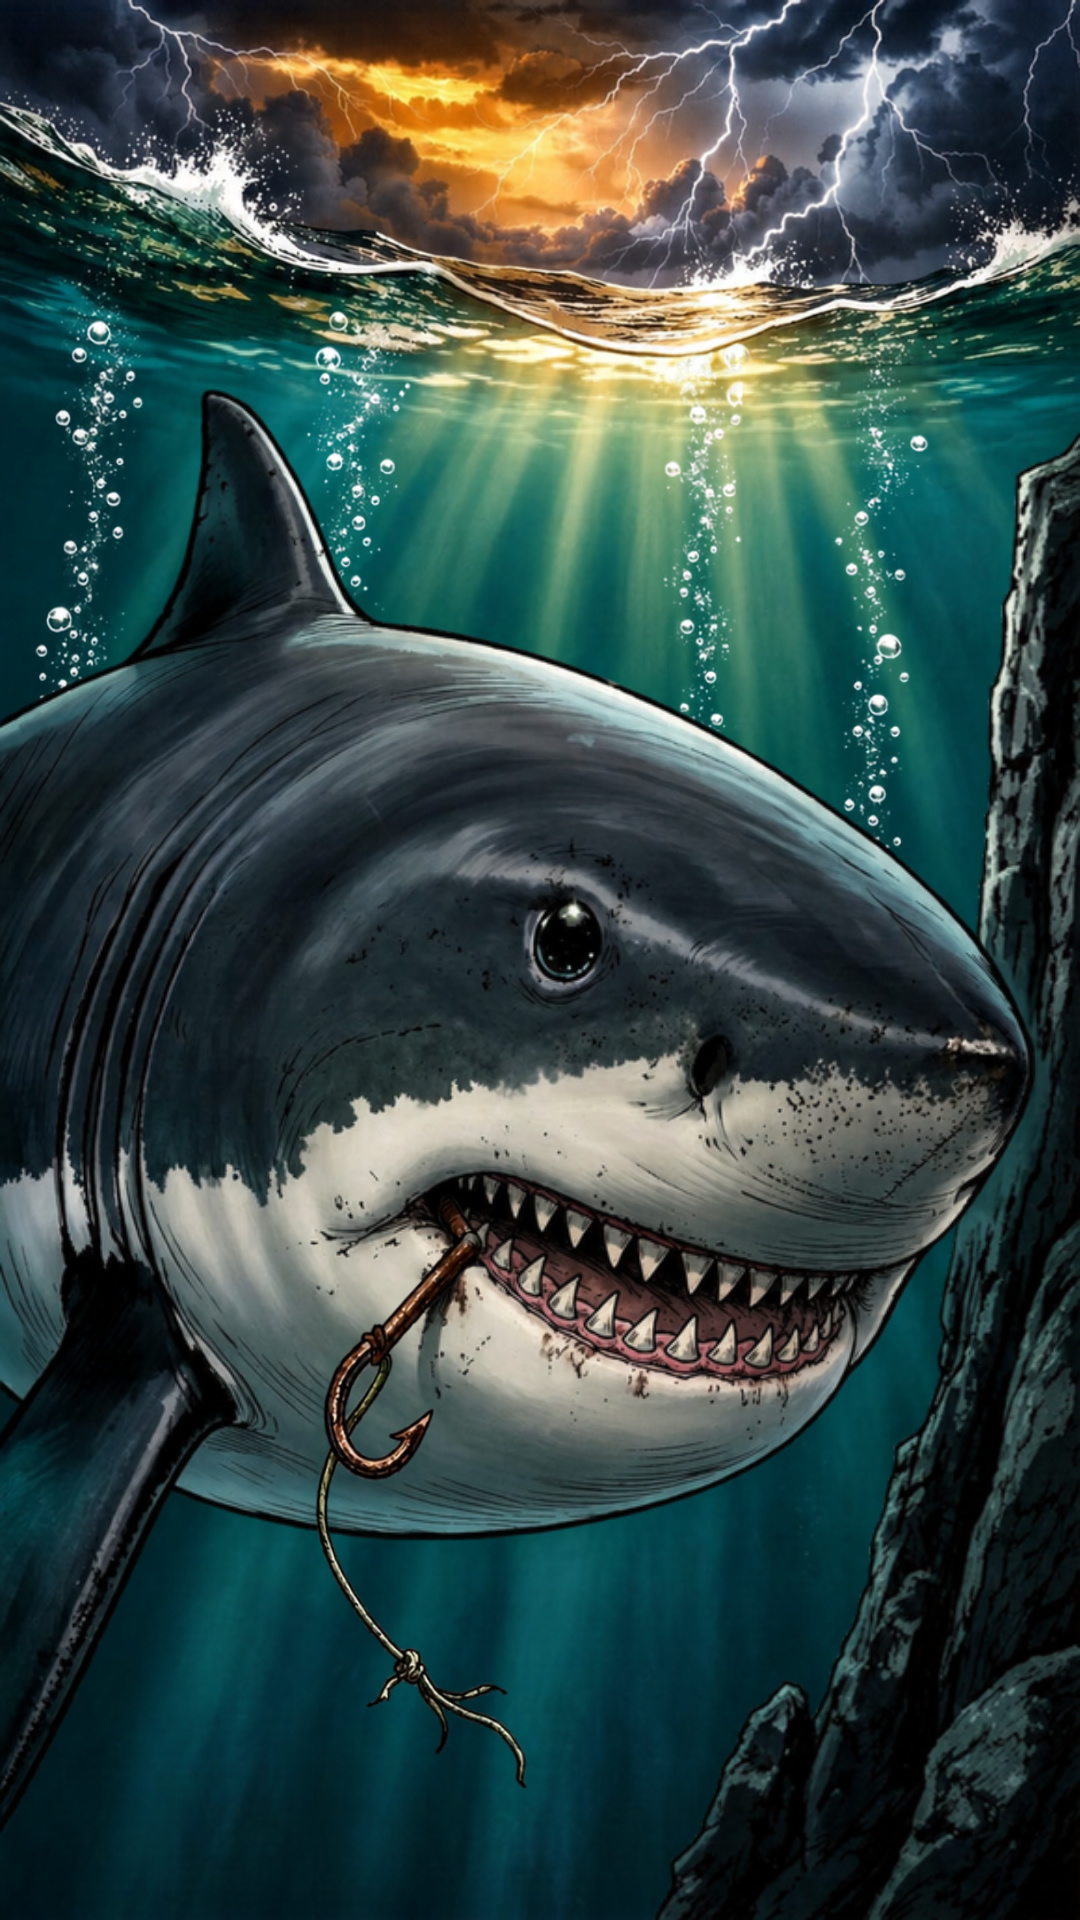
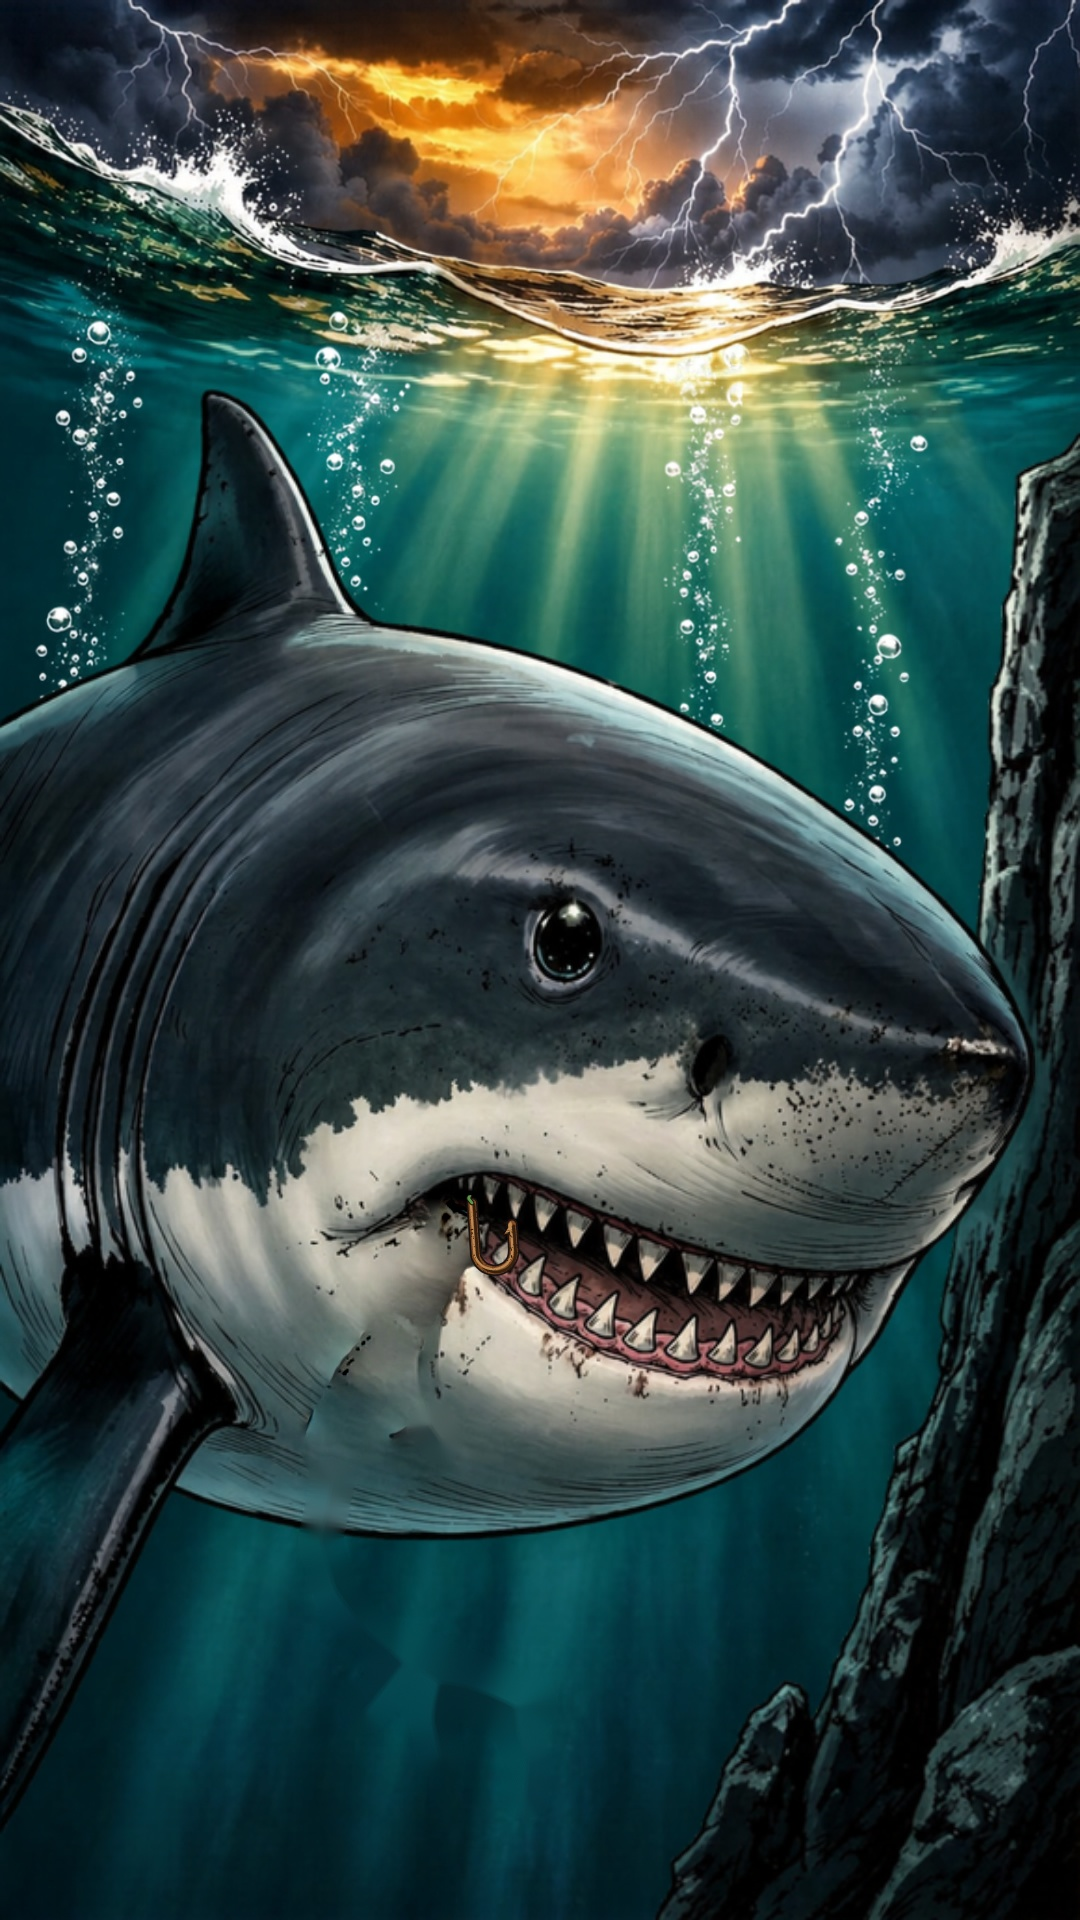
ADA 9: kanca her sahnede aynı çizim, ağzın içinde (09c, 14b, 01b); köpekbalığı değişmedi
Claude-Session: https://claude.ai/code/session_014JxJGGMAcsX945kBrKhihb

Changed region(s): [[0.275, 0.625, 0.4889, 0.8438], [0.3361, 0.8438, 0.4889, 0.9375]]

diff --git a/hikaye-video/projeler/ada9/kanca.py b/hikaye-video/projeler/ada9/kanca.py
@@ -1,0 +1,127 @@
+#!/usr/bin/env python3
+"""Köpekbalığı kancasını bütün sahnelerde AYNI çizimle, ağzın içinde (yanağa saplı) gösterir.
+Eski dışarı sarkan kanca + misina silinir (inpaint), yerine tek bir kanca sprite'ı çizilir.
+Kullanım (repo kökünden): python3 hikaye-video/projeler/ada9/kanca.py <sahne> [<sahne> ...] [--cikti klasör]
+Köpekbalığı çizimi değişmez; yalnızca kanca eklenir."""
+import sys, os, math
+import cv2, numpy as np
+
+G = os.path.join(os.path.dirname(__file__), '..', '..', 'gorseller', 'ada9')
+
+# her sahne: sil = [(noktalar, kalınlık)] çizgi maskeleri, roi = renk maskesiyle kanca avlanacak kutu,
+# kanca = (x, y, açı°, ölçek): sprite'ın sapının tepe noktası, açı 0 = aşağı, + = sağa
+SAHNE = {
+    # klon: [(çizgiler, kalınlık, dx, dy)] -> bölgeyi, (dx, dy) kadar kaydırılmış temiz yerden kopyalar (dx>0: soldan, dy>0: yukarıdan alır)
+    # sil: Telea ile doldurulacak ince çizgiler (su içindeki misina)
+    '09c': dict(klon=[([([(455, 1230), (420, 1290), (392, 1340)], 54)], -100, -120),
+                      ([([(392, 1340), (350, 1400), (335, 1425)], 54), ([(335, 1425), (330, 1452), (345, 1482), (385, 1478), (430, 1442)], 54)], -120, 0)],
+                sil=[([(332, 1480), (320, 1540), (335, 1590), (365, 1630), (405, 1662)], 28),
+                     ([(410, 1665), (385, 1685), (365, 1710)], 30), ([(412, 1672), (430, 1710), (440, 1756)], 30),
+                     ([(415, 1672), (470, 1698), (512, 1722), (528, 1760), (525, 1795)], 30), ([(420, 1688), (470, 1684), (510, 1690)], 28), ([(395, 1655), (450, 1680), (520, 1705)], 55), ([(430, 1425), (440, 1440)], 30)],
+                kanca=(472, 1203, -4, 0.8)),
+    '14b': dict(cor=[(200, 1440, 360, 1860)], sil=[([(322, 1282), (330, 1250), (352, 1226), (400, 1214), (432, 1232), (444, 1262), (432, 1292), (396, 1306), (360, 1322), (342, 1352), (338, 1385)], 42),
+                     ([(346, 1396), (356, 1416)], 84), ([(338, 1430), (332, 1480), (318, 1540), (312, 1600), (296, 1690), (270, 1770), (245, 1830)], 30),
+                     ([(310, 1535), (255, 1565)], 44), ([(285, 1785), (215, 1850)], 56)],
+                kanca=(352, 1236, 6, 1.25)),
+    '15': dict(cor=[(893, 1490, 1020, 1585)], sil=[([(886, 1492), (892, 1516)], 24), ([(880, 1524), (884, 1530)], 44),
+                    ([(900, 1535), (925, 1568), (962, 1582), (992, 1560), (1002, 1528), (990, 1500), (950, 1487)], 46), ([(955, 1490), (970, 1535)], 32)],
+               kanca=(880, 1470, 84, 0.55)),
+    '01b': dict(cor=[(670, 1090, 920, 1470)], sil=[([(738, 1078), (736, 1122)], 30), ([(745, 1182), (748, 1202)], 56), ([(708, 1160), (716, 1170)], 36), ([(826, 1392), (838, 1400)], 34), ([(880, 1436), (896, 1446)], 36), ([(826, 1330), (840, 1345)], 30)], kanca=(729, 1058, -4, 0.65)),
+}
+
+
+def sprite(scale):
+    """Paslı J kanca: siyah mürekkep konturlu, turuncu-kahve gövde, parlak vurgu. RGBA, tepe (sap ucu) = (ox, oy)."""
+    S = 4 * scale; W = int(120 * S); H = int(150 * S); ox, oy = int(30 * S), int(10 * S)
+    lay = np.zeros((H, W, 4), np.float32)
+    def P(x, y): return (int(ox + x * S), int(oy + y * S))
+    pts = [(0, 0), (0, 62)]
+    for a in np.linspace(180, 360, 24):  # alt yay, merkez (24, 62), r=24
+        pts.append((24 + 24 * math.cos(math.radians(a)) * -1 if False else 24 - 24 * math.cos(math.radians(a - 180)), 62 + 24 * math.sin(math.radians(a - 180))))
+    pts += [(48, 62), (48, 30)]
+    poly = np.array([P(*p) for p in pts], np.int32)
+    barb = np.array([P(48, 28), P(37, 42), P(48, 40)], np.int32)
+    def stroke(col, th, off=(0, 0)):
+        layer = np.zeros((H, W, 3), np.uint8); m = np.zeros((H, W), np.uint8)
+        cv2.polylines(m, [poly + np.array(off, np.int32)], False, 255, int(th * S), cv2.LINE_AA)
+        cv2.fillPoly(m, [barb + np.array(off, np.int32)], 255)
+        return m
+    outline = stroke(0, 14)
+    base = stroke(0, 9.5)
+    shade = stroke(0, 3.4, (int(2.2 * S), int(2.2 * S)))
+    hi = stroke(0, 2.2, (int(-1.8 * S), int(-1.8 * S)))
+    rgb = np.zeros((H, W, 3), np.float32)
+    rgb[:] = (18, 20, 28)  # kontur (BGR)
+    rng = np.random.default_rng(3)
+    tex = cv2.GaussianBlur(rng.random((H, W)).astype(np.float32), (0, 0), 1.2 * S / 4) - .5
+    rust = np.array([34, 74, 128], np.float32)  # BGR: pas rengi
+    col = rust[None, None, :] * (1 + 1.1 * tex[..., None])
+    rgb = np.where(base[..., None] > 127, col, rgb)
+    rgb = np.where((shade[..., None] > 127) & (base[..., None] > 127), rust * .45, rgb)
+    rgb = np.where((hi[..., None] > 127) & (base[..., None] > 127), np.array([84, 138, 190], np.float32), rgb)
+    spots = (cv2.GaussianBlur(rng.random((H, W)).astype(np.float32), (0, 0), 2.2 * S / 4) > .58) & (base > 127)
+    rgb = np.where(spots[..., None], rust * .38, rgb)
+    alpha = cv2.GaussianBlur(outline.astype(np.float32) / 255, (0, 0), 0.8 * S / 4)
+    out = np.dstack([np.clip(rgb, 0, 255), alpha * 255])
+    # kısa yeşil misina ucu (yanağa doğru kaybolur), sapın tepesinden
+    ln = np.zeros((H, W), np.uint8); cv2.polylines(ln, [np.array([P(0, 0), P(-4, -6), P(-1, -12)], np.int32)], False, 255, int(3 * S), cv2.LINE_AA)
+    lnk = np.zeros((H, W), np.uint8); cv2.polylines(lnk, [np.array([P(0, 0), P(-4, -6), P(-1, -12)], np.int32)], False, 255, int(5.4 * S), cv2.LINE_AA)
+    a2 = cv2.GaussianBlur(lnk.astype(np.float32) / 255, (0, 0), .7 * S / 4)
+    out[..., :3] = np.where(lnk[..., None] > 127, (18, 20, 28), out[..., :3]); out[..., 3] = np.maximum(out[..., 3], a2 * 255)
+    out[..., :3] = np.where(ln[..., None] > 127, (70, 150, 90), out[..., :3])
+    return out, (ox, oy), S
+
+
+def yerlestir(im, x, y, aci, olcek):
+    sp, (ox, oy), S = sprite(olcek)
+    h, w = sp.shape[:2]
+    M = cv2.getRotationMatrix2D((ox, oy), -aci, 1.0)
+    sp = cv2.warpAffine(sp, M, (w, h), flags=cv2.INTER_CUBIC, borderValue=(0, 0, 0, 0))
+    f = 1 / 4  # süper örneklemeyi küçült
+    sp = cv2.resize(sp, None, fx=f, fy=f, interpolation=cv2.INTER_AREA)
+    ox, oy = ox * f, oy * f
+    X0, Y0 = int(round(x - ox)), int(round(y - oy))
+    h, w = sp.shape[:2]
+    y0c, x0c = max(0, Y0), max(0, X0); y1c, x1c = min(im.shape[0], Y0 + h), min(im.shape[1], X0 + w)
+    s = sp[y0c - Y0:y1c - Y0, x0c - X0:x1c - X0]
+    a = s[..., 3:4] / 255
+    reg = im[y0c:y1c, x0c:x1c].astype(np.float32)
+    im[y0c:y1c, x0c:x1c] = np.clip(reg * (1 - a) + s[..., :3] * a, 0, 255).astype(np.uint8)
+
+
+def temizle(im, cfg):
+    for lines, dx, dy in cfg.get('klon', []):
+        m = np.zeros(im.shape[:2], np.uint8)
+        for pts, th in lines: cv2.polylines(m, [np.array(pts, np.int32)], False, 255, th, cv2.LINE_AA)
+        m = cv2.dilate(m, cv2.getStructuringElement(cv2.MORPH_ELLIPSE, (9, 9)))
+        src = np.roll(im, (dy, dx), axis=(0, 1))   # çıktı[y,x] = im[y-dy, x-dx]
+        ys, xs = np.where(m > 0)
+        box = (int(xs.min()), int(ys.min()), int(xs.max()), int(ys.max()))
+        c = ((box[0] + box[2]) // 2, (box[1] + box[3]) // 2)
+        im = cv2.seamlessClone(src, im, m, c, cv2.NORMAL_CLONE)
+    mask = np.zeros(im.shape[:2], np.uint8)
+    for x0, y0, x1, y1 in cfg.get('cor', []):  # renk maskesi: pas/kırmızı-kahve kanca + bej misina
+        hsv = cv2.cvtColor(im[y0:y1, x0:x1], cv2.COLOR_BGR2HSV)
+        h, sa, v = hsv[..., 0].astype(int), hsv[..., 1].astype(int), hsv[..., 2].astype(int)
+        rust = (((h <= 24) | (h >= 168)) & (sa >= 70) & (v >= 40) & (v <= 240))
+        tan = ((h >= 18) & (h <= 64) & (sa >= 55) & (v >= 70))
+        mask[y0:y1, x0:x1] |= ((rust | tan).astype(np.uint8) * 255)
+    for pts, th in cfg.get('sil', []):
+        cv2.polylines(mask, [np.array(pts, np.int32)], False, 255, th, cv2.LINE_AA)
+    if mask.any():
+        im = cv2.inpaint(im, cv2.dilate(mask, cv2.getStructuringElement(cv2.MORPH_ELLIPSE, (15, 15))), 6, cv2.INPAINT_TELEA)
+    return im
+
+
+def main():
+    args = [a for a in sys.argv[1:] if not a.startswith('--')]
+    cikti = sys.argv[sys.argv.index('--cikti') + 1] if '--cikti' in sys.argv else None
+    if cikti: args = [a for a in args if a != cikti]
+    for n in args:
+        cfg = SAHNE[n]; im = cv2.imread(os.path.join(G, n + '.jpg'))
+        im = temizle(im, cfg); yerlestir(im, *cfg['kanca'])
+        cv2.imwrite(os.path.join(cikti or G, n + '.jpg'), im, [cv2.IMWRITE_JPEG_QUALITY, 95]); print('tamam', n)
+
+
+if __name__ == '__main__':
+    main()
